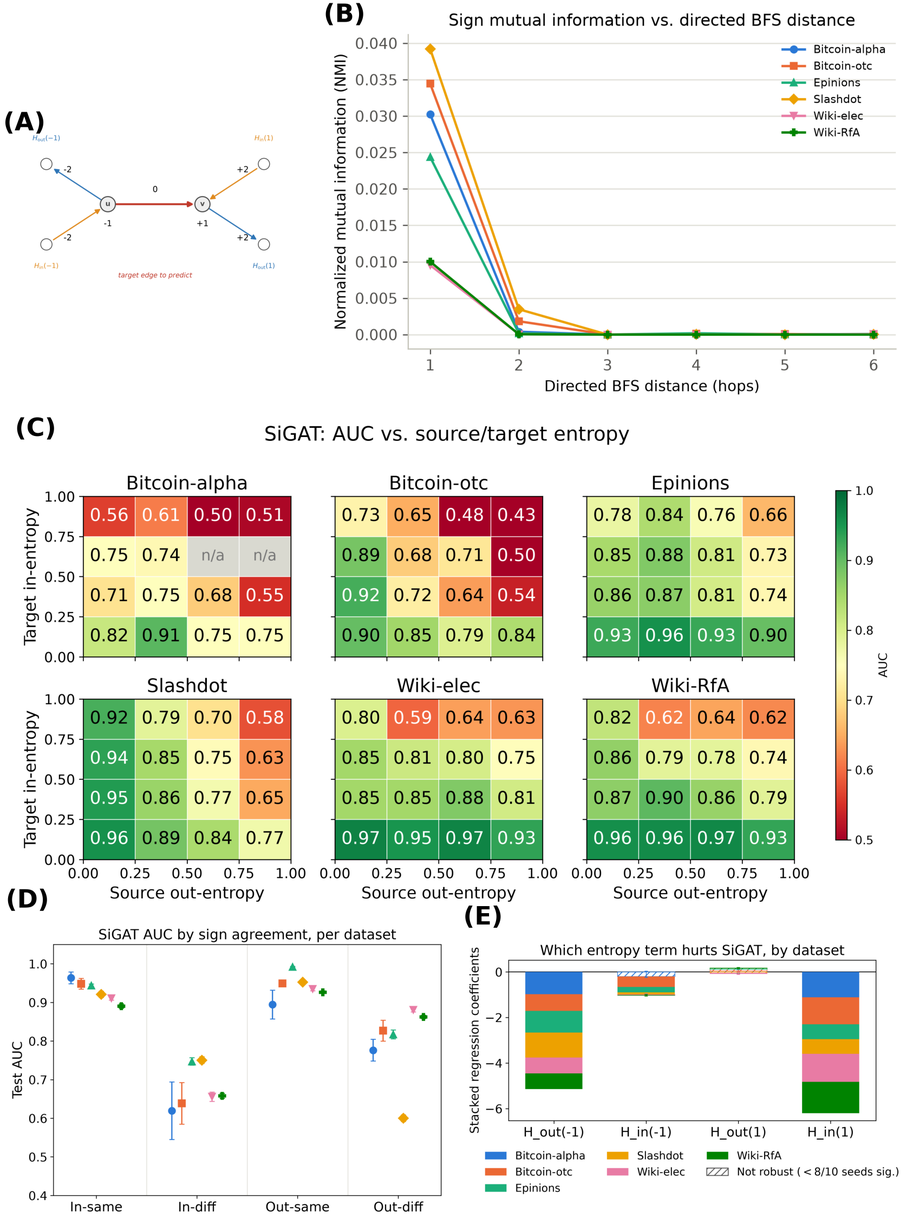
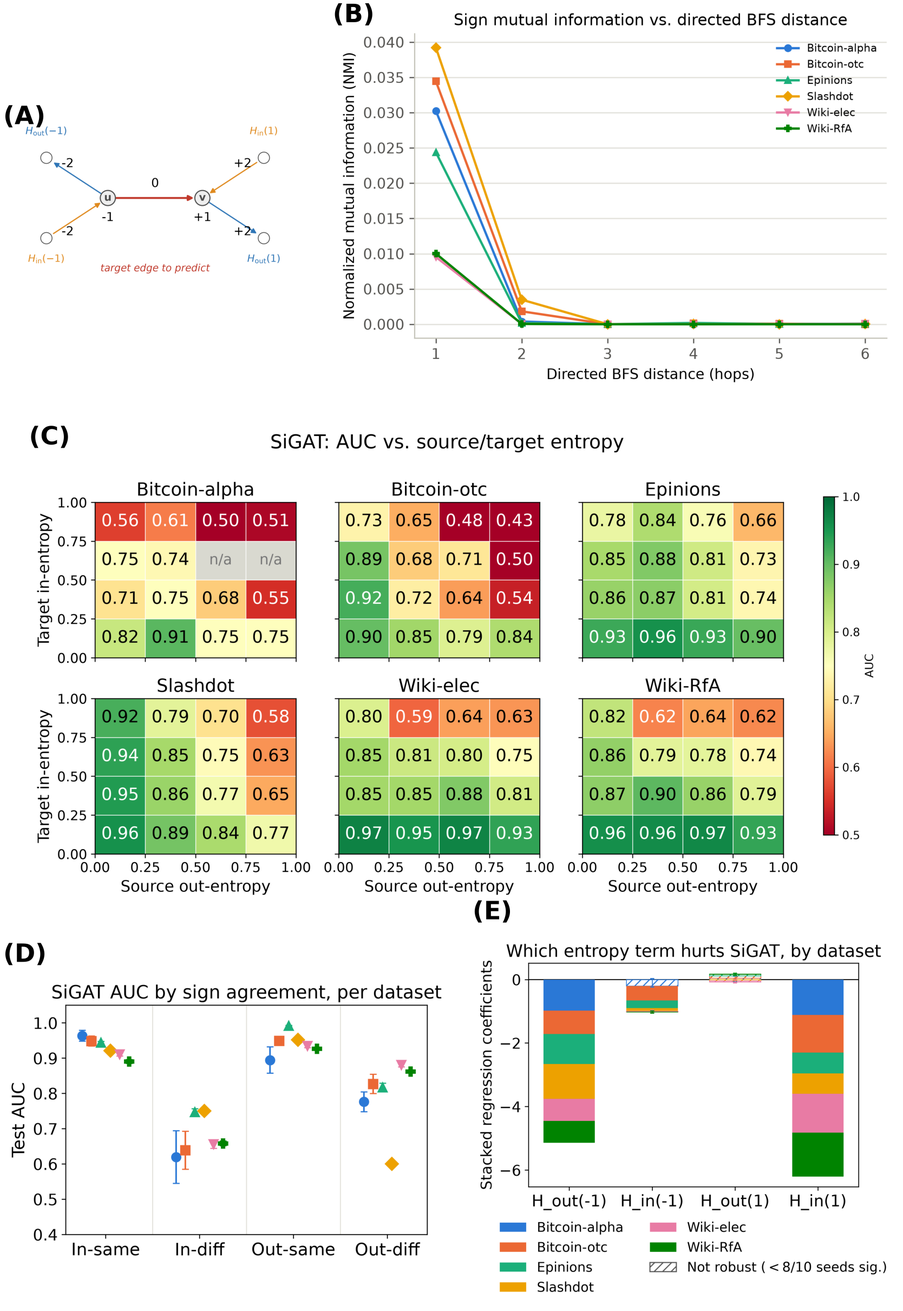
thesis done (?)

diff --git a/thesis/thesis.tex b/thesis/thesis.tex
@@ -8,13 +8,12 @@
 
 \usepackage{booktabs}
 \usepackage{multirow}
-\usepackage{amsmath,amssymb,amsthm}
+\usepackage{amsmath,amsthm}
 \usepackage{xspace}
 \usepackage{algorithm}
 \usepackage{algorithmic}
 
 %% Convenience macros
-\newcommand{\ph}[1]{\textbf{[#1]}} % placeholder marker -- MUST BE EMPTY AT SUBMISSION
 \newcommand{\Hh}{\mathrm{H}}
 \newcommand{\MI}{\mathrm{I}}
 \newcommand{\indeg}{\mathrm{in}}
@@ -93,11 +92,11 @@ A more modern approach replaces hand-built triad features with message-passing G
 To summarize, existing approaches, including random-walk based solutions, either explicitly construct local edge features or compress graph context into vertex representations. PEWTER instead preserves the target edge as an explicit prediction position within a local relational sequence.
 \section{Contributions.}
 \begin{itemize}
-\item We identify an information bottleneck for endpoint-only edge-sign prediction by relating message-passing representations to WL equivalence classes and deriving a Fano-type lower bound on classification error.
-\item Across six public signed networks, we quantify the residual label entropy after WL coarsening and show that endpoint-based predictors deteriorate as this unresolved heterogeneity increases.
-\item Across six public signed networks, we show that endpoint incident-edge sign entropy is associated with degradation of vertex-centric edge-sign prediction, providing an observable proxy for the heterogeneity underlying the theoretical bottleneck.
-\item We propose PEWTER, a proximal edge-walk Transformer that predicts a masked target edge from an ordered local sequence containing both vertices and signed edges, thereby preserving edge-local relational context. 
-\item PEWTER improves test AUC over eight baselines on all six datasets. The improvement is maximal in edges surrounded by high sign entropy vertices.
+\item \textbf{A limit of vertex-centric GNNs.} A graph neural network that predicts an edge's sign from the representations of its two endpoints cannot tell apart edges whose endpoints have the same neighborhood structure (the same Weisfeiler--Lehman color). When such edges carry different signs, some error is unavoidable; we bound it from below using Fano's inequality and show that neither deeper nor wider networks remove it.
+\item \textbf{Evidence on real networks.} On six public signed networks, we show that the sign information shared by two edges is concentrated within one hop, and that a strong signed-GNN baseline loses accuracy as the signs around an edge's endpoints become more mixed (higher sign entropy), the observable counterpart of the theoretical limit.
+\item \textbf{Pewter.} We propose Pewter (Proximal Edge-Walk Transformer with Ensemble Read-out): it samples random walks that pass through the target edge, reads each walk as a sequence of vertex and edge tokens with the target's sign hidden, predicts that sign with a Transformer whose attention is restricted to a short window of about two hops, and combines the predictions of all walks containing the edge.
+\item \textbf{Results.} Pewter improves test AUC over eight baselines on all six datasets, by $3.3$ points on average, with the largest gains on edges whose endpoints have the most mixed signs.
+\item \textbf{What drives the gain.} Ablations show that most of the advantage comes from the learned vertex and edge embeddings, with the local, directed walk context adding a smaller but consistent gain.
 \end{itemize}
 
 \section{Problem Setting and theoretical limitations}
@@ -177,13 +176,13 @@ The key architectural distinction of PEWTER is that it does not first compress t
 \label{fig:pipeline-schematic}
 \end{figure*}
 
-\paragraph{Walk sampler.} We build the walk corpus in two passes, each producing walks of up to $L$ hops (\S\ref{sec:setup}). First, every edge gets one walk that starts by traversing it: from its source vertex, cross that edge, then continue as an ordinary directed random walk. At each step, an edge from the current vertex is chosen with equal probability. If the vertex has 0 out-degree, the walk is stopped short of $L$ hops. We fill the rest of the $M$-walk budget with walks centered on a random vertex, extended backward by a random prefix of up to $L/3$ hops and forward for the rest of the $L$-hop budget. Each walk is checked with a hash against the current corpus, and only unique walks are maintained. Each walk is encoded as an alternating sequence of vertex and edge tokens $N_{u_0}, E_{1}, N_{u_1}, E_{2}, \ldots$, where edge token $E_i$ carries the identity of the traversed edge together with its observed sign $s_i\in\{+1,-1\}$. Each edge typically appears as a token inside many walks, not just the one it anchors; these occurrences are combined by the vote below.
+\paragraph{Walk sampler.} We build the walk corpus in two passes, each producing walks of up to $L$ hops (\S\ref{sec:setup}). First, every edge gets one walk that starts by traversing it: from its source vertex, cross that edge, then continue as an ordinary directed random walk. At each step, an edge from the current vertex is chosen with equal probability. If the vertex has 0 out-degree, the walk is stopped short of $L$ hops. We fill the rest of the $M$-walk budget with walks centered on a random vertex, extended backward by a random prefix of up to $L/3$ hops and forward for the rest of the $L$-hop budget. Each walk is checked with a hash against the current corpus, and only unique walks are maintained. Each walk is encoded as an alternating sequence of vertex and edge tokens $N_{u_0}, E_{1}, N_{u_1}, E_{2}, \ldots$, where edge token $E_i$ carries the identity of the traversed edge together with its observed sign $s_i\in\{+1,-1\}$ (Figure~\ref{fig:pipeline-schematic}, Graph and Walks: three walks through the target edge $e_{uv}$). Each edge typically appears as a token inside many walks, not just the one it anchors; these occurrences are combined by the vote below.
 
-\paragraph{Per-walk classifier.} Each walk is embedded token-by-token: vertex and special tokens through a shared embedding table of dimension $d$, and each edge token as the sum of an identity embedding and a sign embedding. Edge identities use a low-rank table (rank $r=16$) projected to dimension $d$ by a shared linear map, and the sign has its own three-entry table (positive, negative, hidden). An edge whose identity was not trained is given a shared unknown-edge identity. The token embeddings are given fixed sinusoidal positional encodings and passed through a Transformer encoder~\citep{vaswani2017attention} ($n_\text{layer}$ layers, $n_\text{head}$ heads). We consider two self-attention variants: \emph{full} attention, where every token attends to every other token in the walk, and \emph{local} attention, where token $i$ attends only to tokens $j$ with $|i-j|\le w$; since each graph hop spans two token positions, $w=4$ restricts every token to roughly its $\pm2$-hop surroundings (see Figure~\ref{fig:empconf-panels}(A) for the position-index notation). The training pool is divided into a context sub-pool and a masking sub-pool of fixed relative size ($48\%/32\%$ of all edges, $80\%$ combined -- validation and test make up the other $10\%/10\%$). At each epoch, a fresh $40\%$ of this combined training pool is resampled as that epoch's prediction targets, stratified to preserve the positive/negative sign balance. Each designated edge has its sign and its identity hidden but remains fully attendable as context for other predictions -- a stricter, split-based exclusion is described next. The model predicts a hidden position's sign from its surrounding vertex and edge context through a shared linear classification head, in the style of masked language modeling~\citep{devlin2019bert}. The model is trained end-to-end with a cross-entropy loss over the two sign classes, computed only at the hidden target positions; every other position, hidden or not, contributes no loss. A second regularizer randomly replaces a fraction $p$ of vertex-identity tokens with an unknown-vertex placeholder or another vertex's token, and likewise a fraction of edge identities with an unknown-edge placeholder or another edge's identity, so the model cannot fall back on memorized vertex or edge identity in place of structural and sign context.
+\paragraph{Per-walk classifier.} Each walk is embedded token-by-token: vertex and special tokens through a shared embedding table of dimension $d$, and each edge token as the sum of an identity embedding and a sign embedding. Edge identities use a low-rank table (rank $r=16$) projected to dimension $d$ by a shared linear map, and the sign has its own three-entry table (positive, negative, hidden). An edge whose identity was not trained is given a shared unknown-edge identity. The token embeddings are given fixed sinusoidal positional encodings and passed through a Transformer encoder~\citep{vaswani2017attention} ($n_\text{layer}$ layers, $n_\text{head}$ heads). We consider two self-attention variants: \emph{full} attention, where every token attends to every other token in the walk, and \emph{local} attention, where token $i$ attends only to tokens $j$ with $|i-j|\le w$; since each graph hop spans two token positions, $w=4$ restricts every token to roughly its $\pm2$-hop surroundings (the shaded proximal attention window in Figure~\ref{fig:pipeline-schematic}; position-index notation in Figure~\ref{fig:empconf-panels}(A)). The training pool is divided into a context sub-pool and a masking sub-pool of fixed relative size ($48\%/32\%$ of all edges, $80\%$ combined -- validation and test make up the other $10\%/10\%$). At each epoch, a fresh $40\%$ of this combined training pool is resampled as that epoch's prediction targets, stratified to preserve the positive/negative sign balance. Each designated edge has its sign and its identity hidden but remains fully attendable as context for other predictions -- a stricter, split-based exclusion is described next. The model predicts a hidden position's sign from its surrounding vertex and edge context through a shared linear classification head, in the style of masked language modeling~\citep{devlin2019bert} (Figure~\ref{fig:pipeline-schematic}, Stage 1). The model is trained end-to-end with a cross-entropy loss over the two sign classes, computed only at the hidden target positions; every other position, hidden or not, contributes no loss. A second regularizer randomly replaces a fraction $p$ of vertex-identity tokens with an unknown-vertex placeholder or another vertex's token, and likewise a fraction of edge identities with an unknown-edge placeholder or another edge's identity, so the model cannot fall back on memorized vertex or edge identity in place of structural and sign context.
 
 \paragraph{Preventing held-out sign leakage.} Because sampled walks overlap heavily, constructing the walk corpus before splitting target edges could expose held-out edge signs through their occurrences as context in other walks. To avoid that,  the walk corpus is built once from the full graph, independent of any split. Then, the edge token (identity and sign) of every occurrence of such a test or validation edge in walks that contain it is replaced by \texttt{<MASK>} and is additionally excluded from attention as a key, not just hidden as a target. As such, it cannot inform the prediction of any edge, including its own. This is stricter than the target masking described above: a masked prediction target keeps its position attendable, with only its sign and identity hidden, whereas a split-excluded edge is invisible altogether.
 
-\paragraph{Aggregation across walks.} A given edge occurs in many sampled walks, each yielding a probability estimate $q_j=P(\text{sign}=1\mid \text{walk}_j)$. We combine these into an edge-level score with a parametric weighted mean, $\hat{y}_e = \frac{\sum_j w_j q_j}{\sum_j w_j}$, with weights $w_j = |\operatorname{logit}(q_j)|^{b}$, where $b$ is fit by maximizing validation AUC~\citep{nelder1965simplex}. The weighting has a natural reading: $|\operatorname{logit}(q_j)|$ is a monotone decreasing function of the walk-level predictive entropy, so the aggregator symmetrically up-weights confident walk occurrences over uncertain ones, regardless of which sign they favor. This is a standard confidence-weighted ensemble rule, comparable to inverse-variance weighting, rather than a fitted heuristic; Ablation~\ref{abl:aggregator} shows that the specific choice barely matters, so we present it as a defensible default rather than as a contribution. Algorithm~\ref{alg:pewter} gives the full inference procedure for one edge.
+\paragraph{Aggregation across walks.} A given edge occurs in many sampled walks, each yielding a probability estimate $q_j=P(\text{sign}=1\mid \text{walk}_j)$. We combine these into an edge-level score with a parametric weighted mean, $\hat{y}_e = \frac{\sum_j w_j q_j}{\sum_j w_j}$ (Figure~\ref{fig:pipeline-schematic}, Stage 2), with weights $w_j = |\operatorname{logit}(q_j)|^{b}$, where $b$ is fit by maximizing validation AUC~\citep{nelder1965simplex}. The weighting has a natural reading: $|\operatorname{logit}(q_j)|$ is a monotone decreasing function of the walk-level predictive entropy, so the aggregator symmetrically up-weights confident walk occurrences over uncertain ones, regardless of which sign they favor. This is a standard confidence-weighted ensemble rule, comparable to inverse-variance weighting, rather than a fitted heuristic; Ablation~\ref{abl:aggregator} shows that the specific choice barely matters, so we present it as a defensible default rather than as a contribution. Algorithm~\ref{alg:pewter} gives the full inference procedure for one edge.
 
 \begin{algorithm}[tb]
 \caption{Pewter: inference for edge $(u,v)$}
@@ -209,7 +208,7 @@ Self-loops are removed everywhere ($573$ edges on Epinions, none on the other fi
 
 \begin{table}[h!]
 \centering
-\scriptsize
+\small
 \caption{Per-dataset size and walk budget. $\kappa$ is the walk-budget multiplier, $M=\kappa|E|$, fixed per dataset (Setup below).}
 \label{tab:dataset-walks}
 \begin{tabular}{lrrrr}
@@ -310,21 +309,6 @@ We stratified the test edges of each dataset by endpoint entropy, in the same so
 \label{abl:proximal}
 Restricting attention to a $\pm2$-hop window matches or beats full attention on four of six datasets (Bitcoin-alpha $+0.32$pp, Bitcoin-otc $+0.46$pp, Epinions $+0.36$pp, Wiki-elec $+0.04$pp) and trails on the other two (Wiki-RfA $-0.07$pp, Slashdot $-0.27$pp); both variants appear in Table~\ref{tab:result1}. A two-sided paired Wilcoxon signed-rank test across the 10 splits finds the difference statistically significant on three of six datasets (Bitcoin-otc $p=0.002$, Epinions $p=0.010$, Slashdot $p=0.010$; not significant on Bitcoin-alpha, Wiki-elec, Wiki-RfA), but every one of these differences, significant or not, stays under $0.5$pp. The practical reading does not change: local attention costs at most 0.003 in AUC while restricting the per-walk attention computation to a $\pm2$-hop window (\S\ref{sec:complexity}), so it is the better default regardless of which variant happens to win on a given dataset. A direct check finds that target edges have a signed neighbor edge inside their attention window most of the time on all six datasets (Bitcoin-alpha $90.6\%$, Bitcoin-otc $89.2\%$, Epinions $84.6\%$, Slashdot $81.4\%$, Wiki-elec $74.9\%$, Wiki-RfA $87.9\%$), so the window captures real local context rather than an empty span; the lowest rate, on Wiki-elec, still leaves the window empty only when the walk itself runs out of visible context to offer.
 
-% Dropped for submission (2026-08-23): the two token-masking ablations (removing the
-% vertex token / removing the edge token) are commented out, not deleted -- restore by
-% uncommenting if they come back. Every prose reference to their findings elsewhere in
-% the paper (Abstract, Contributions, the ablations summary paragraph below) was removed
-% or reworded in the same pass; see git history for the removed text.
-%\refstepcounter{ablation}
-%\paragraph{\theablation) Removing the vertex token.}
-%\label{abl:masknode}
-%Replacing every vertex token with \texttt{<UNK>} (train and eval) collapses test AUC by 14.6 to 33.7 percentage points on all six datasets (Bitcoin-alpha $-22.0$pp, Bitcoin-otc $-14.6$pp, Epinions $-33.7$pp, Wiki-elec $-33.7$pp, Wiki-RfA $-30.7$pp, Slashdot $-24.0$pp; $p=0.00098$ throughout), confirming vertex identity carries most of the signal. This result also clarifies that PEWTER is not an edge-only model: its principal advantage comes from preserving vertex information within a target-edge-centered relational context.
-%
-%\refstepcounter{ablation}
-%\paragraph{\theablation) Removing the edge token.}
-%\label{abl:maskedge}
-%Replacing every edge token with \texttt{<MASK>} instead costs far less, a uniform $-1.0$ to $-1.6$pp on all six datasets (Bitcoin-alpha $-1.0$pp, Bitcoin-otc $-1.0$pp, Epinions $-1.3$pp, Wiki-elec $-1.6$pp, Wiki-RfA $-1.1$pp, Slashdot $-1.0$pp; significant on all six, $p\le0.032$).Thus, although vertex information accounts for most of the predictive signal, explicit neighboring edge signs provide additional information beyond the vertex tokens.
-
 \refstepcounter{ablation}
 \paragraph{\theablation) The aggregator weighting is nearly irrelevant.}
 \label{abl:aggregator}
@@ -345,12 +329,11 @@ Each sampled walk is randomly flipped (fixed per walk, whole-sequence reversal, 
 \label{abl:visibility}
 We retrain Pewter with every combination of three inputs hidden, in training and evaluation alike: the vertex tokens, the identities of the context edges, and the signs of the context edges. Hidden inputs are replaced by placeholders, so each walk keeps its length and layout, and the target edge stays hidden as always (Table~\ref{tab:visibility}). When vertex tokens are visible, hiding the context edges' identity, sign, or both changes test AUC by under $0.5$pp on every dataset (significant only on Bitcoin-otc; one-sided paired Wilcoxon across the 10 splits), while hiding the vertex tokens costs $2.7$ to $37.5$pp ($p=0.00098$ in every such cell). How much the edges recover without vertices depends on the dataset: their identities keep the model within $2.7$--$6.1$pp of the full model on Bitcoin-alpha, Bitcoin-otc, Epinions and Slashdot, but not on the two Wikipedia vote graphs (Wiki-elec $-24.5$pp, Wiki-RfA $-11.0$pp). The learned identity embeddings thus carry most of the signal, and an edge's identity can absorb much of what its endpoints carry, provided the edge is seen often enough to learn it: an edge appears in $5.8$ walks on average on Wiki-elec against roughly $200$ on the Bitcoin graphs (Ablation~\ref{abl:singlewalk}). Together with the pair-only ablation (Ablation~\ref{abl:pair}), this suggests that the learned embeddings provide most of Pewter's advantage, with the local walk context adding a smaller but consistent gain on top, and the direction of that context mattering (Ablation~\ref{abl:dirflip}).
 
-\begin{table}[h!]
+\begin{table*}[t!]
 \centering
-\scriptsize
+\small
 \caption{Ablation~\ref{abl:visibility}: test AUC (mean $\pm$ std, 10 splits) with vertex tokens (V), context-edge identities (I) and context-edge signs (S) visible (\checkmark) or hidden (--). The first row is Pewter (local attention).}
 \label{tab:visibility}
-\resizebox{\linewidth}{!}{%
 \begin{tabular}{ccccccccc}
 \toprule
 V & I & S & Bitcoin-alpha & Bitcoin-otc & Epinions & Wiki-elec & Wiki-RfA & Slashdot \\
@@ -364,19 +347,13 @@ V & I & S & Bitcoin-alpha & Bitcoin-otc & Epinions & Wiki-elec & Wiki-RfA & Slas
 -- & -- & \checkmark & $0.729_{\pm0.023}$ & $0.797_{\pm0.009}$ & $0.682_{\pm0.004}$ & $0.568_{\pm0.006}$ & $0.590_{\pm0.006}$ & $0.674_{\pm0.003}$ \\
 -- & -- & -- & $0.583_{\pm0.039}$ & $0.589_{\pm0.016}$ & $0.647_{\pm0.009}$ & $0.548_{\pm0.034}$ & $0.560_{\pm0.015}$ & $0.521_{\pm0.008}$ \\
 \bottomrule
-\end{tabular}%
-}
-\end{table}
+\end{tabular}
+\end{table*}
 
 \refstepcounter{ablation}
 \paragraph{\theablation) Pair-only attention.}
 \label{abl:pair}
 We restrict attention so that every edge token attends only to itself and its two endpoint vertices, and every vertex token only to itself; the target edge is then predicted from its two endpoints alone, with no other walk context. This costs $0.6$ to $3.2$pp on all six datasets (Bitcoin-alpha $-1.8$pp, Bitcoin-otc $-2.0$pp, Epinions $-0.8$pp, Wiki-elec $-0.7$pp, Wiki-RfA $-0.6$pp, Slashdot $-3.2$pp; one-sided paired Wilcoxon across the 10 splits, $p\le0.005$), yet the pair-only model still beats the best baseline on five of six datasets ($p\le0.01$; Wiki-elec $+0.3$pp, $p=0.08$). The endpoint embeddings, learned end to end from the masked-sign objective rather than computed by WL-bounded neighborhood aggregation, thus already account for most of Pewter's advantage, and the local walk context adds the rest.
-
-% Dropped for submission (2026-08-23), commented out not deleted -- original version,
-% restored verbatim after an intermediate rewrite; leaned on the two now-dropped masking
-% ablations (vertex vs. edge token) for its claim, so it's out until/unless those return.
-%Taken together, the ablations indicate that PEWTER's advantage does not arise simply from replacing vertex information with edge information. Vertex identity and directed structural context provide the dominant signal, while explicit edge-sign tokens contribute additional relational information. The central architectural benefit is therefore the preservation of local target-edge context within a unified representation.
 
 \subsection{Complexity}
 \label{sec:complexity}
@@ -422,10 +399,10 @@ P_e\ \ge\ \tfrac12-\sqrt{\tfrac{\ln 2}{2}\big(1-\Hh(Y\mid Z)\big)},$ which may b
 
 \emph{Bound.} Among all $\mathcal{F}$-measurable predictors the error is minimized by the maximum-a-posteriori rule $\tilde g^\star(a,b)=\arg\max_y \Pr(Y=y\mid \chi_T(U)=a,\chi_T(V)=b)$. Conditional on a fixed color pair $(a,b)$ this is the binary problem of the Problem Setting, so $P_e(a,b)\ge \Hh_b^{-1}\big(\Hh(Y\mid \chi_T(U)=a,\chi_T(V)=b)\big)$. The overall error is $P_e=\mathbb{E}_{(a,b)}[P_e(a,b)]$; applying Jensen's inequality to the convex $\Hh_b^{-1}$ gives:$
 P_e \ \ge\ \mathbb{E}_{(a,b)}\Big[\Hh_b^{-1}\big(\Hh(Y\mid a,b)\big)\Big]  \ge 
-% \Hh_b^{-1}\Big(\mathbb{E}_{(a,b)}\big[\Hh(Y\mid a,b)\big]\Big) =
+\Hh_b^{-1}\Big(\mathbb{E}_{(a,b)}\big[\Hh(Y\mid a,b)\big]\Big) =
  \Hh_b^{-1}\big(\Hh(Y\mid \chi_T(U),\chi_T(V))\big),
 $
-the last step being the chain rule for conditional entropy. Since any GNN lies in this class, its error is at least this bound. Because $\chi_T$ refines toward the stable coloring $\chi$, $\Hh(Y\mid \chi_T(U),\chi_T(V))\ge \Hh(Y\mid \chi(U),\chi(V))$, and $\Hh_b^{-1}$ is increasing, so the bound at the stable coloring lower-bounds the bound at any finite $T$. Assumption~\ref{as:structural} makes $\Hh(Y\mid \chi(U),\chi(V))$ strictly positive, hence $P_e>0$. Neither depth nor width lowers it, since both only refine within the WL ceiling.
+the last step being the definition of conditional entropy. Since any GNN lies in this class, its error is at least this bound. Because $\chi_T$ refines toward the stable coloring $\chi$, $\Hh(Y\mid \chi_T(U),\chi_T(V))\ge \Hh(Y\mid \chi(U),\chi(V))$, and $\Hh_b^{-1}$ is increasing, so the bound at the stable coloring lower-bounds the bound at any finite $T$. Assumption~\ref{as:structural} makes $\Hh(Y\mid \chi(U),\chi(V))$ strictly positive, hence $P_e>0$. Neither depth nor width lowers it, since both only refine within the WL ceiling.
 
 \emph{Identity versus color.} In a simple graph the identity pair $(U,V)$ fixes the unique incident edge, so $\Hh(Y\mid U,V)=0$; the whole bound is the information gap $\Hh(Y\mid \chi(U),\chi(V))-\Hh(Y\mid U,V)$ destroyed by replacing identities with colors. 
 %This is why the multiplicity of edges per pair is irrelevant to the argument.
@@ -434,12 +411,11 @@ the last step being the chain rule for conditional entropy. Since any GNN lies i
 
 
 
-\begin{table}[h!]
+\begin{table*}[t!]
 \centering
-\scriptsize
+\small
 \caption{Ablation~\ref{abl:aggregator}: test AUC (mean $\pm$ std, 10 splits) for Pewter (local attention) under 11 aggregator weight functions $w(q)$, each depending only on the walk's predicted probability $q$. Bold marks the best per dataset, italic the second best. The full spread across all functions and datasets is under $0.0025$ AUC.}
 \label{tab:ablationB}
-\resizebox{\linewidth}{!}{%
 \begin{tabular}{lcccccc}
 \toprule
 Weight $w(q)$ & Bitcoin-alpha & Bitcoin-otc & Epinions & Wiki-elec & Wiki-RfA & Slashdot \\
@@ -456,9 +432,8 @@ $\exp(-aH(q))$ & $0.919_{\pm0.016}$ & $0.935_{\pm0.006}$ & $0.953_{\pm0.002}$ & 
 $(q(1-q))^{-b}$ (Fisher-info) & $\mathit{0.919_{\pm0.015}}$ & $0.935_{\pm0.006}$ & $\mathbf{0.954_{\pm0.002}}$ & $\mathbf{0.898_{\pm0.004}}$ & $\mathbf{0.892_{\pm0.002}}$ & $\mathbf{0.896_{\pm0.002}}$ \\
 $\max(q,1-q)^b$ & $0.919_{\pm0.016}$ & $0.936_{\pm0.006}$ & $0.953_{\pm0.002}$ & $0.898_{\pm0.004}$ & $0.892_{\pm0.002}$ & $0.896_{\pm0.002}$ \\
 \bottomrule
-\end{tabular}%
-}
-\end{table}
+\end{tabular}
+\end{table*}
 %% References Section
 \section{Discussion and limitations}
 We have shown that PEWTER - a random-walk-based edge-sign classifier has significantly higher AUC than current methods.  The improvement we report comes with a trade-off that follows directly from Proposition 1 itself. PEWTER escapes the endpoint bottleneck in part because its vertex tokens are identity-indexed embeddings rather than structural encodings computed from a WL-style computation tree. Consequently, PEWTER inherits that price: it is a fully transductive model, and a target edge whose endpoints were absent from the training walk corpus (a genuinely new vertex, rather than merely a held-out edge between known vertices) has no learned vertex token and no walk occurrences to score. Inductive baselines such as GraphSAGE, and more generally any message-passing GNN that computes the embeddings from features and local structure rather than an identity lookup, degrade gracefully in this regime, where PEWTER cannot be evaluated at all without retraining or a fallback rule. We did not test this regime, since all six benchmarks are transductive by construction, but it bounds the settings the reported gains apply to: streaming or cold-start deployments where new accounts arrive continuously are exactly the ones where the endpoint bottleneck is least escapable by our method.

diff --git a/experiments/edge_identity_tokens/make_thesis_figures.py b/experiments/edge_identity_tokens/make_thesis_figures.py
@@ -23,7 +23,8 @@ os.chdir(ROOT)  # the production plot scripts use repo-relative paths
 
 DATA = os.path.join("experiments", "edge_identity_tokens", "thesis_figure_data")
 FIG = os.path.join("thesis", "figures")
-UNCHANGED = ["empconf_panels_abcde_combined_sidebyside.png", "pipeline_schematic.png"]
+UNCHANGED = ["pipeline_schematic.png"]
+PANELS = os.path.join(FIG, "panels")  # intermediate single-panel PNGs
 
 
 def delta_heatmap():
@@ -64,6 +65,30 @@ def attention_figure():
         mod.main()
     comb.PANEL_A, comb.PANEL_B, comb.PANEL_C, comb.PANEL_D = a.OUT_PNG, b.OUT_PNG, c.OUT_PNG, d.OUT_PNG
     comb.OUT_PNG = os.path.join(FIG, "attndir_panels_abcd_combined.png")
+    comb.HSPACE, comb.LABEL_LIFT_BC = 0.12, 0.01  # lift (B)/(C) above their plots
+    comb.main()
+
+
+def empconf_figure(scale=0.75):
+    """Empirical-evidence figure (baseline/data-only): WSDM panels, with A, D, E redrawn on a smaller
+    canvas so their text is larger after combining (B, C reused as rendered for WSDM)."""
+    import combine_empconf_panels_abcde_sidebyside as comb
+    import plot_empconf_panelA_schematic as pa
+    import plot_empconf_panelD_signagreement_auc as pd_
+    import plot_empconf_panelE_coefficients as pe
+    os.makedirs(PANELS, exist_ok=True)
+    pd_.FIG_SCALE = pe.FIG_SCALE = scale
+    for k in ("FONT_SIZE_INDEX", "FONT_SIZE_LABEL", "FONT_SIZE_TERM"):  # A is an equal-aspect drawing: scale its fonts instead
+        setattr(pa, k, getattr(pa, k) * 1.5)
+    pa.OUT_PNG = os.path.join(PANELS, "empconf_panelA_schematic.png")
+    pd_.OUT_POOLED_PNG = os.path.join(PANELS, "empconf_panelD_signagreement_auc.png")
+    pd_.OUT_PERDATASET_PNG = os.path.join(PANELS, "empconf_panelD_signagreement_auc_perdataset.png")
+    pe.OUT_PNG = os.path.join(PANELS, "empconf_panelE_coefficients.png")
+    for mod in (pa, pd_, pe):
+        mod.main()
+    comb.PANEL_A, comb.PANEL_D, comb.PANEL_E = pa.OUT_PNG, pd_.OUT_PERDATASET_PNG, pe.OUT_PNG
+    comb.OUT_PNG = os.path.join(FIG, "empconf_panels_abcde_combined_sidebyside.png")
+    comb.HSPACE = 0.08
     comb.main()
 
 
@@ -71,7 +96,7 @@ def check_dpi():
     from PIL import Image
     bad = []
     for name in sorted(os.listdir(FIG)):
-        if name.endswith(".png"):
+        if name.endswith(".png") and os.path.isfile(os.path.join(FIG, name)):
             dpi = Image.open(os.path.join(FIG, name)).info.get("dpi", (0, 0))
             ok = all(abs(x - 300) < 0.5 for x in dpi)
             print(f"  {'ok ' if ok else 'BAD'} {dpi[0]:.0f} dpi  {name}")
@@ -85,6 +110,7 @@ def main():
     for name in UNCHANGED:
         shutil.copy2(os.path.join("aaai2027", "figures", name), os.path.join(FIG, name))
     delta_heatmap()
+    empconf_figure()
     se = os.path.join(DATA, "attndir_panelBC_se.csv")
     if os.path.exists(se) and sum(1 for _ in open(se)) == 7:  # header + all 6 datasets
         attention_figure()

diff --git a/scripts/paper_figures/plot_empconf_panelE_coefficients.py b/scripts/paper_figures/plot_empconf_panelE_coefficients.py
@@ -77,6 +77,7 @@ from dataset_style import DATASET_ORDER, DATASET_COLORS, DATASET_DISPLAY
 
 IN_CSV = "aaai2027/figure_data/empconf_panelE_coefficients.csv"
 OUT_PNG = "aaai2027/figures/empconf_panelE_coefficients.png"
+FIG_SCALE = 1.0  # <1: narrower canvas (same height), 2-column legend -> relatively larger text (thesis)
 
 # position-based order, matching Panel A's schematic: -1 (source) before +1 (target),
 # out before in within each position.
@@ -90,7 +91,7 @@ def main():
 
     x = np.arange(len(TERM_ORDER))
     width = 0.62
-    fig, ax = plt.subplots(figsize=(7.4, 5.1))
+    fig, ax = plt.subplots(figsize=(7.4 * FIG_SCALE, 5.1))  # width only: the half-page slot is width-limited
 
     cum_pos = np.zeros(len(TERM_ORDER))
     cum_neg = np.zeros(len(TERM_ORDER))
@@ -133,8 +134,16 @@ def main():
     dataset_handles, dataset_labels = ax.get_legend_handles_labels()
     hatch_handle = Patch(facecolor="white", edgecolor="#555", hatch="///",
                           label="Not robust ($<$8/10 seeds sig.)")
-    ax.legend(handles=dataset_handles + [hatch_handle], fontsize=12.5, ncol=3,
-               loc="lower center", bbox_to_anchor=(0.5, -0.52), frameon=False)
+    if FIG_SCALE == 1.0:
+        ax.legend(handles=dataset_handles + [hatch_handle], fontsize=12.5, ncol=3,
+                   loc="lower center", bbox_to_anchor=(0.5, -0.52), frameon=False)
+    else:  # smaller canvas: anchor the legend just below the tick labels instead of a fixed offset
+        fig.tight_layout()
+        fig.canvas.draw()
+        tick_bottom = min(t.get_window_extent().y0 for t in ax.get_xticklabels())
+        y = ax.transAxes.inverted().transform((0, tick_bottom))[1] - 0.03
+        ax.legend(handles=dataset_handles + [hatch_handle], fontsize=12.5, ncol=2,
+                   loc="upper center", bbox_to_anchor=(0.5, y), frameon=False)
     fig.tight_layout()
 
     os.makedirs(os.path.dirname(OUT_PNG), exist_ok=True)

diff --git a/scripts/paper_figures/combine_attndir_panels.py b/scripts/paper_figures/combine_attndir_panels.py
@@ -34,6 +34,8 @@ PANEL_A = "aaai2027/figures/attndir_panelA_headgrid.png"
 PANEL_B = "aaai2027/figures/attndir_panelB_direction.png"
 PANEL_C = "aaai2027/figures/attndir_panelC_nodeedge.png"
 PANEL_D = "aaai2027/figures/shap_edge_directionality.png"
+HSPACE = 0.05
+LABEL_LIFT_BC = 0.0  # >0: put the (B)/(C) labels above their panels instead of over the plot corner (thesis)
 OUT_PNG = "aaai2027/figures/attndir_panels_abcd_combined.png"
 
 WIDTH_IN = 7.2
@@ -44,13 +46,13 @@ def _aspect(path):
     return im, im.shape[0] / im.shape[1]
 
 
-def _add_panel(fig, gs_cell, path, label):
+def _add_panel(fig, gs_cell, path, label, lift=0.0):
     img, _ = _aspect(path)
     ax = fig.add_subplot(gs_cell)
     ax.imshow(img)
     ax.axis("off")
-    ax.text(0.0, 1.0, label, transform=ax.transAxes, fontsize=11, fontweight="bold",
-             va="top", ha="left")
+    ax.text(0.0, 1.0 + lift, label, transform=ax.transAxes, fontsize=11, fontweight="bold",
+             va="top" if lift == 0 else "bottom", ha="left", clip_on=False)
     return ax
 
 
@@ -69,13 +71,13 @@ def main():
 
     total_h = row1_h + row2_h + row3_h
     fig = plt.figure(figsize=(WIDTH_IN, total_h))
-    gs = fig.add_gridspec(3, 1, height_ratios=[row1_h, row2_h, row3_h], hspace=0.05)
+    gs = fig.add_gridspec(3, 1, height_ratios=[row1_h, row2_h, row3_h], hspace=HSPACE)
 
     _add_panel(fig, gs[0], PANEL_A, "(A)")
 
     gs_row2 = gs[1].subgridspec(1, 2, width_ratios=[0.5, 0.5], wspace=0.03)
-    _add_panel(fig, gs_row2[0], PANEL_B, "(B)")
-    _add_panel(fig, gs_row2[1], PANEL_C, "(C)")
+    _add_panel(fig, gs_row2[0], PANEL_B, "(B)", lift=LABEL_LIFT_BC)
+    _add_panel(fig, gs_row2[1], PANEL_C, "(C)", lift=LABEL_LIFT_BC)
 
     _add_panel(fig, gs[2], PANEL_D, "(D)")
 

diff --git a/scripts/paper_figures/plot_empconf_panelD_signagreement_auc.py b/scripts/paper_figures/plot_empconf_panelD_signagreement_auc.py
@@ -32,6 +32,7 @@ IN_POOLED_CSV = "aaai2027/figure_data/empconf_panelD_signagreement_auc.csv"
 IN_PERDATASET_CSV = "aaai2027/figure_data/empconf_panelD_signagreement_auc_perdataset.csv"
 OUT_POOLED_PNG = "aaai2027/figures/empconf_panelD_signagreement_auc.png"
 OUT_PERDATASET_PNG = "aaai2027/figures/empconf_panelD_signagreement_auc_perdataset.png"
+FIG_SCALE = 1.0  # <1: smaller canvas, same font points -> relatively larger text (thesis)
 
 BUCKET_ORDER = ["in_same", "in_diff", "out_same", "out_diff"]
 BUCKET_LABEL = {
@@ -94,7 +95,7 @@ def plot_perdataset():
     spread = 0.5
     offsets = np.linspace(-spread / 2, spread / 2, n_ds)
 
-    fig, ax = plt.subplots(figsize=(7.2, 4.9))
+    fig, ax = plt.subplots(figsize=(7.2 * FIG_SCALE, 4.9 * FIG_SCALE))
     for off, ds in zip(offsets, DATASET_ORDER):
         aucs = [float(data[(ds, b)]["mean_auc"]) for b in BUCKET_ORDER]
         ses = [float(data[(ds, b)]["std_auc"]) for b in BUCKET_ORDER]

diff --git a/scripts/paper_figures/combine_empconf_panels_abcde_sidebyside.py b/scripts/paper_figures/combine_empconf_panels_abcde_sidebyside.py
@@ -34,6 +34,7 @@ PANEL_C = "aaai2027/figures/empconf_panelC_gnn_entropy_heatmap.png"
 PANEL_D = "aaai2027/figures/empconf_panelD_signagreement_auc_perdataset.png"
 PANEL_E = "aaai2027/figures/empconf_panelE_coefficients.png"
 OUT_PNG = "aaai2027/figures/empconf_panels_abcde_combined_sidebyside.png"
+HSPACE = 0.03  # vertical gap between rows (thesis uses more: its D/E row is taller)
 
 WIDTH_IN = 7.2
 ROW1_A_FRAC = 0.34
@@ -73,7 +74,7 @@ def main():
 
     total_h = row1_h + row2_h + row3_h
     fig = plt.figure(figsize=(WIDTH_IN, total_h))
-    gs = fig.add_gridspec(3, 1, height_ratios=[row1_h, row2_h, row3_h], hspace=0.03)
+    gs = fig.add_gridspec(3, 1, height_ratios=[row1_h, row2_h, row3_h], hspace=HSPACE)
 
     gs_row1 = gs[0].subgridspec(1, 2, width_ratios=[ROW1_A_FRAC, 1 - ROW1_A_FRAC], wspace=0.03)
     _add_panel(fig, gs_row1[0], PANEL_A, "(A)")

diff --git a/scripts/paper_figures/plot_empconf_panelA_schematic.py b/scripts/paper_figures/plot_empconf_panelA_schematic.py
@@ -20,6 +20,7 @@ import matplotlib.pyplot as plt
 from matplotlib.patches import FancyArrowPatch, Circle
 
 OUT_PNG = "aaai2027/figures/empconf_panelA_schematic.png"
+FIG_SCALE = 1.0  # <1: smaller canvas, same font points -> relatively larger text (thesis)
 
 # ---- tweakable style constants (see PANELA_SCHEMATIC_GUIDE.md) ----
 NODE_COLOR = "#4a4a4a"
@@ -56,7 +57,7 @@ def draw_edge(ax, p_from, p_to, color, lw, index_label=None, index_xy=None, styl
 
 
 def main():
-    fig, ax = plt.subplots(figsize=(7.2, 3.6))
+    fig, ax = plt.subplots(figsize=(7.2 * FIG_SCALE, 3.6 * FIG_SCALE))
 
     u = (-1.0, 0.0)
     v = (1.0, 0.0)

diff --git a/thesis/REWRITE_CHECKLIST.md b/thesis/REWRITE_CHECKLIST.md
@@ -32,3 +32,9 @@ Status: TODO / PROPOSED / APPROVED+APPLIED / NO CHANGE
 | 21 | Full proofs | check (pure math; only Pewter mention is the aggregator table caption, done in 13) | NO CHANGE (approved 2026-10-20) |
 | 22 | Discussion / limitations | DISCUSS (small): para 1 option B (no edge-identity sentence), para 2 unchanged ("approx 1pp" kept) | NO CHANGE (approved 2026-10-22) |
 | 23 | Ethics | check (per-edge vectors store only public data) | NO CHANGE (approved 2026-10-20) |
+| 24 | Methods: 4 references to the pipeline schematic (walk encoding; window, merged with position-index ref; Stage 1; Stage 2) | text | APPROVED+APPLIED 2026-10-26 |
+| 25 | Tables: dataset table \small (single col); visibility + aggregator tables -> table*[t!], \small, no resizebox | layout | APPROVED+APPLIED 2026-10-26 (check placement/fit when compiling) |
+| 26 | Contributions rewritten: 5 bullets with bold labels, plain wording; old bullet 2 (claimed WL residual entropy is quantified - not done in paper) merged into 'Evidence'; new 'What drives the gain' bullet | text | APPROVED+APPLIED 2026-10-29 |
+| 27 | Attention/SHAP figure: (B),(C) labels above panels (combine_attndir_panels LABEL_LIFT_BC, HSPACE; off by default) | figure | DONE 2026-10-26 |
+| 28 | Empirical-evidence figure: A fonts x1.5, D canvas 0.75, E width 0.75 + 2-col legend, row gap 0.08 (FIG_SCALE/HSPACE options, off by default); rendered by make_thesis_figures.empconf_figure | figure | DONE 2026-10-26 |
+| 29 | Comment audit: line 120 (linear Fano remark) stays commented; proof Jensen middle step RESTORED + "chain rule" -> "definition of conditional entropy"; "multiplicity" line stays commented; dropped-ablation comment blocks, \ph macro, amssymb removed by user (intentional) | math/text | APPROVED+APPLIED 2026-10-29 |
